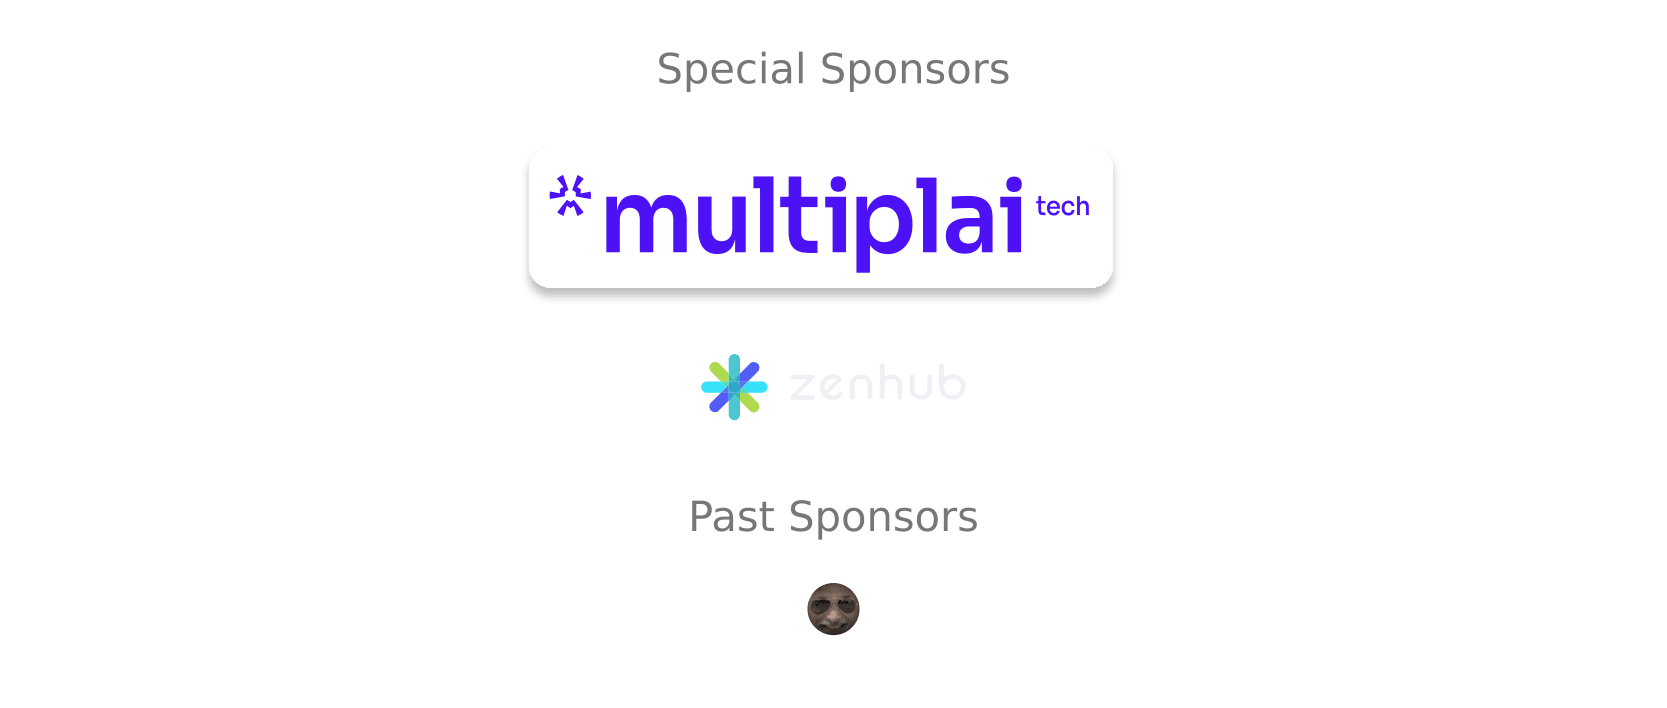
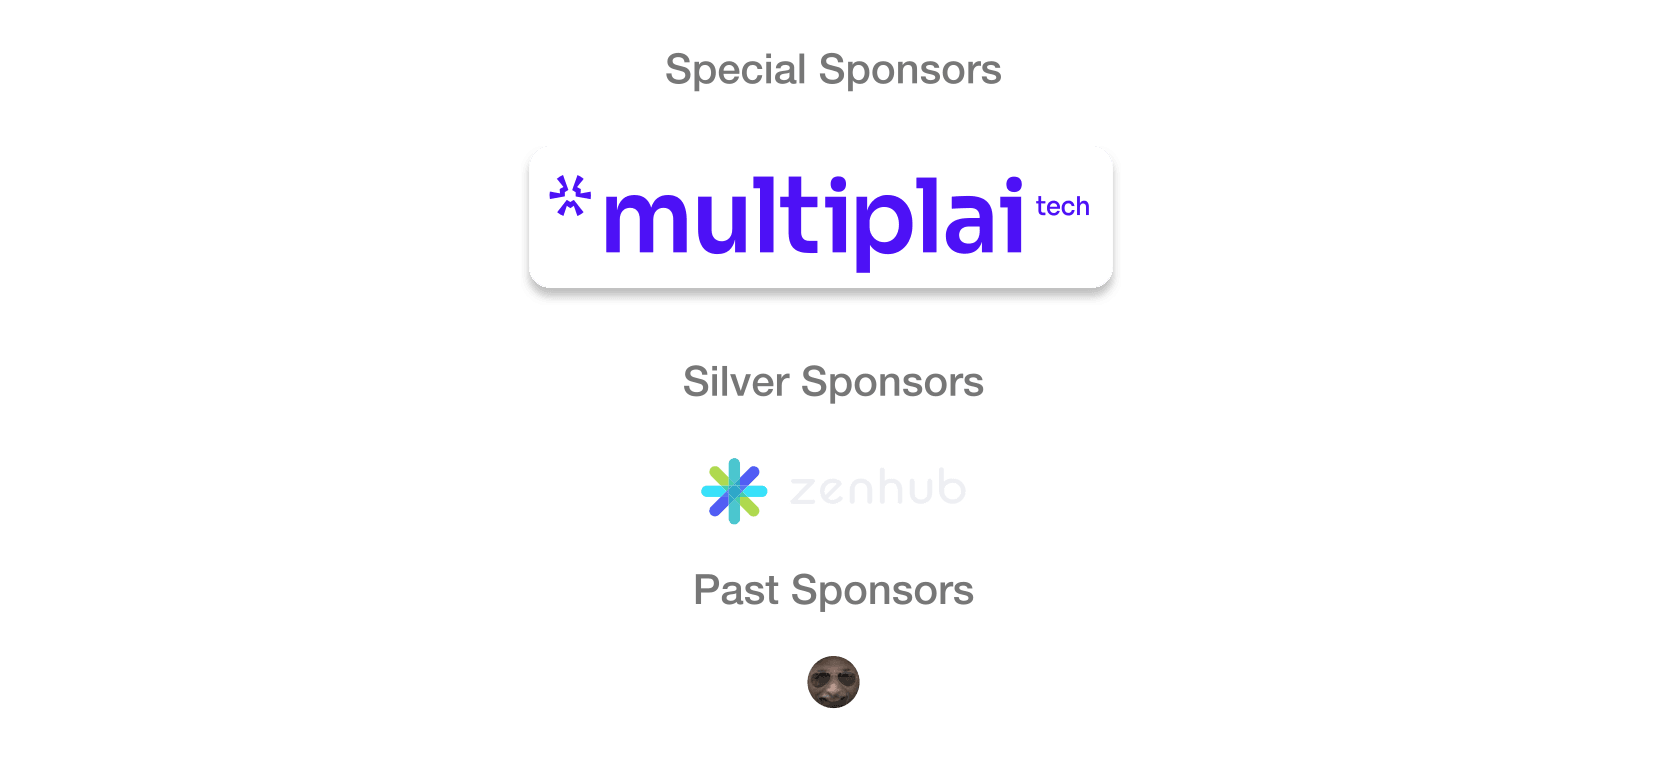
refactor: update sponsor tiers config and layout

diff --git a/sponsor.config.ts b/sponsor.config.ts
@@ -58,9 +58,13 @@ export default defineConfig({
       monthlyDollars: 16,
       preset: tierPresets.medium,
       composeAfter(compose, sponsors, config) {
+        // Always add ZenHub regardless of actual sponsors
         compose
+          .addSpan(20)
+          .addText('Silver Sponsors', 'sponsorkit-tier-title')
+          .addSpan(10)
           .addRaw(ZENHUB_LOGO(config.width!, compose.height))
-          .addSpan(65)
+          .addSpan(50)
       }
     },
     {
@@ -69,12 +73,12 @@ export default defineConfig({
       preset: tierPresets.large,
     },
     {
-      title: 'Diamond Sponsors',
+      title: 'Platinum Sponsors',
       monthlyDollars: 50,
-      preset: tierPresets.large,
+      preset: tierPresets.xl,
     },
     {
-      title: 'Platinum Sponsors',
+      title: 'Diamond Sponsors',
       monthlyDollars: 100,
       preset: tierPresets.xl,
     },
